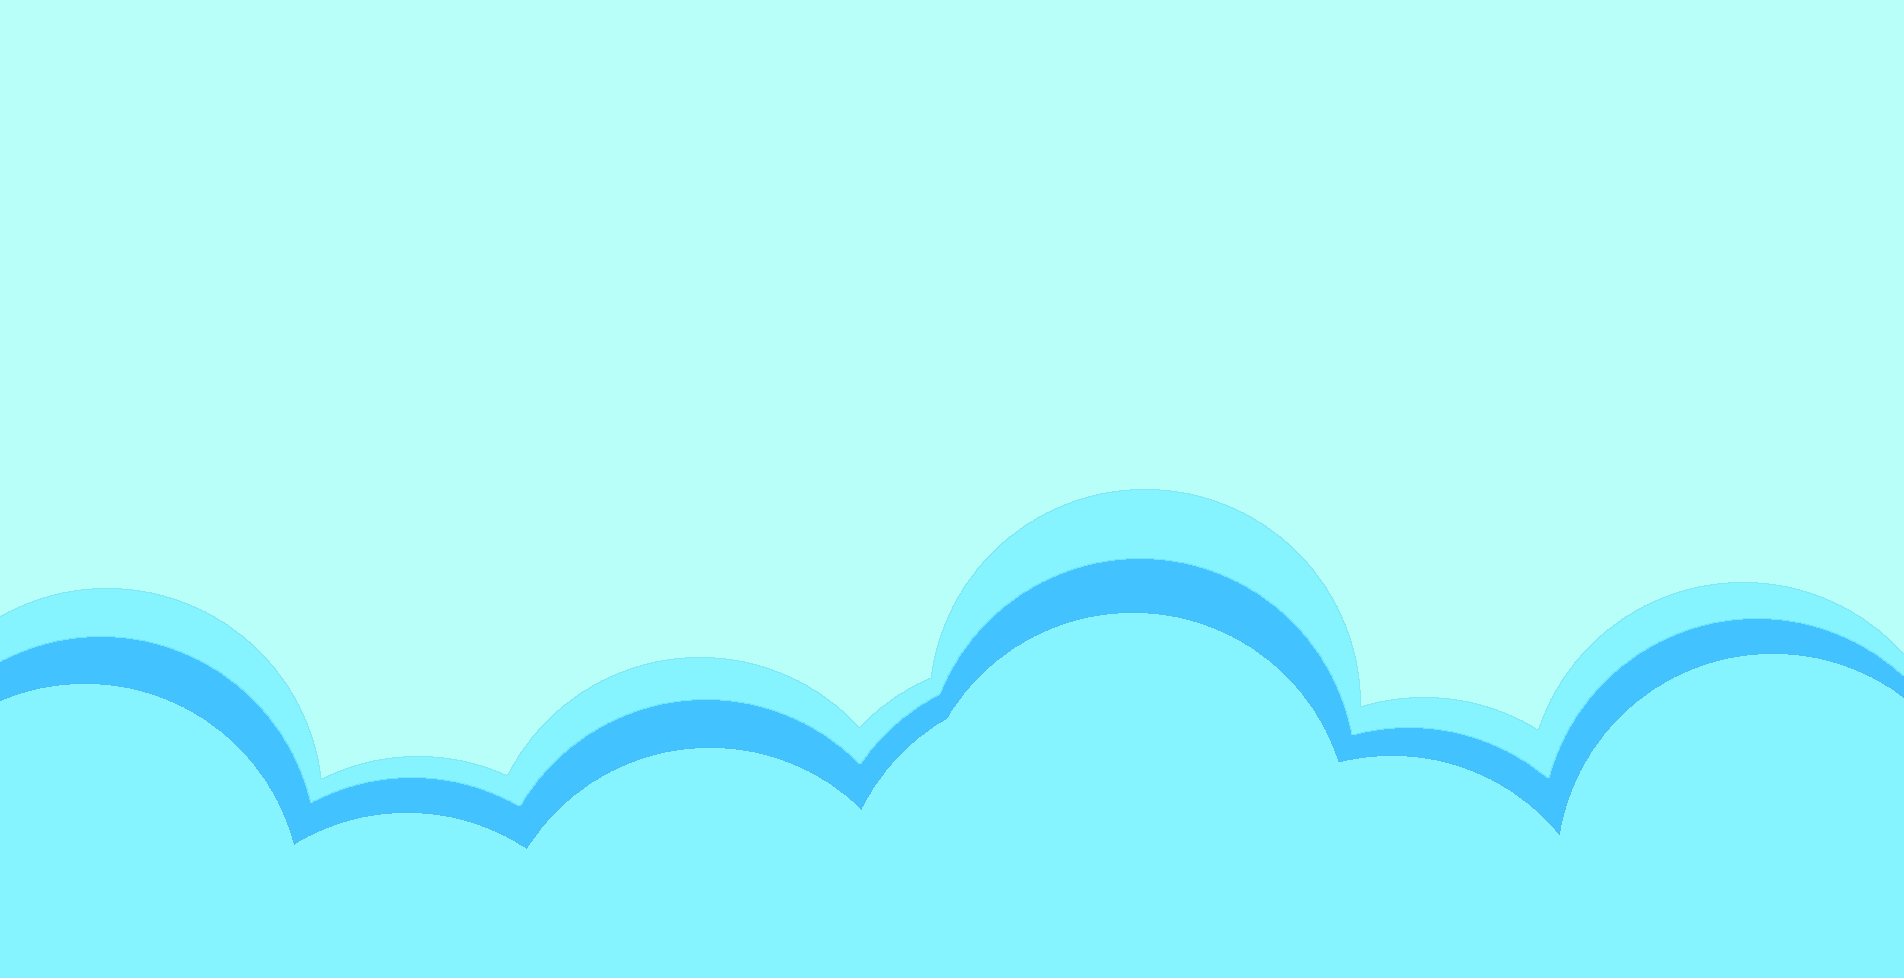
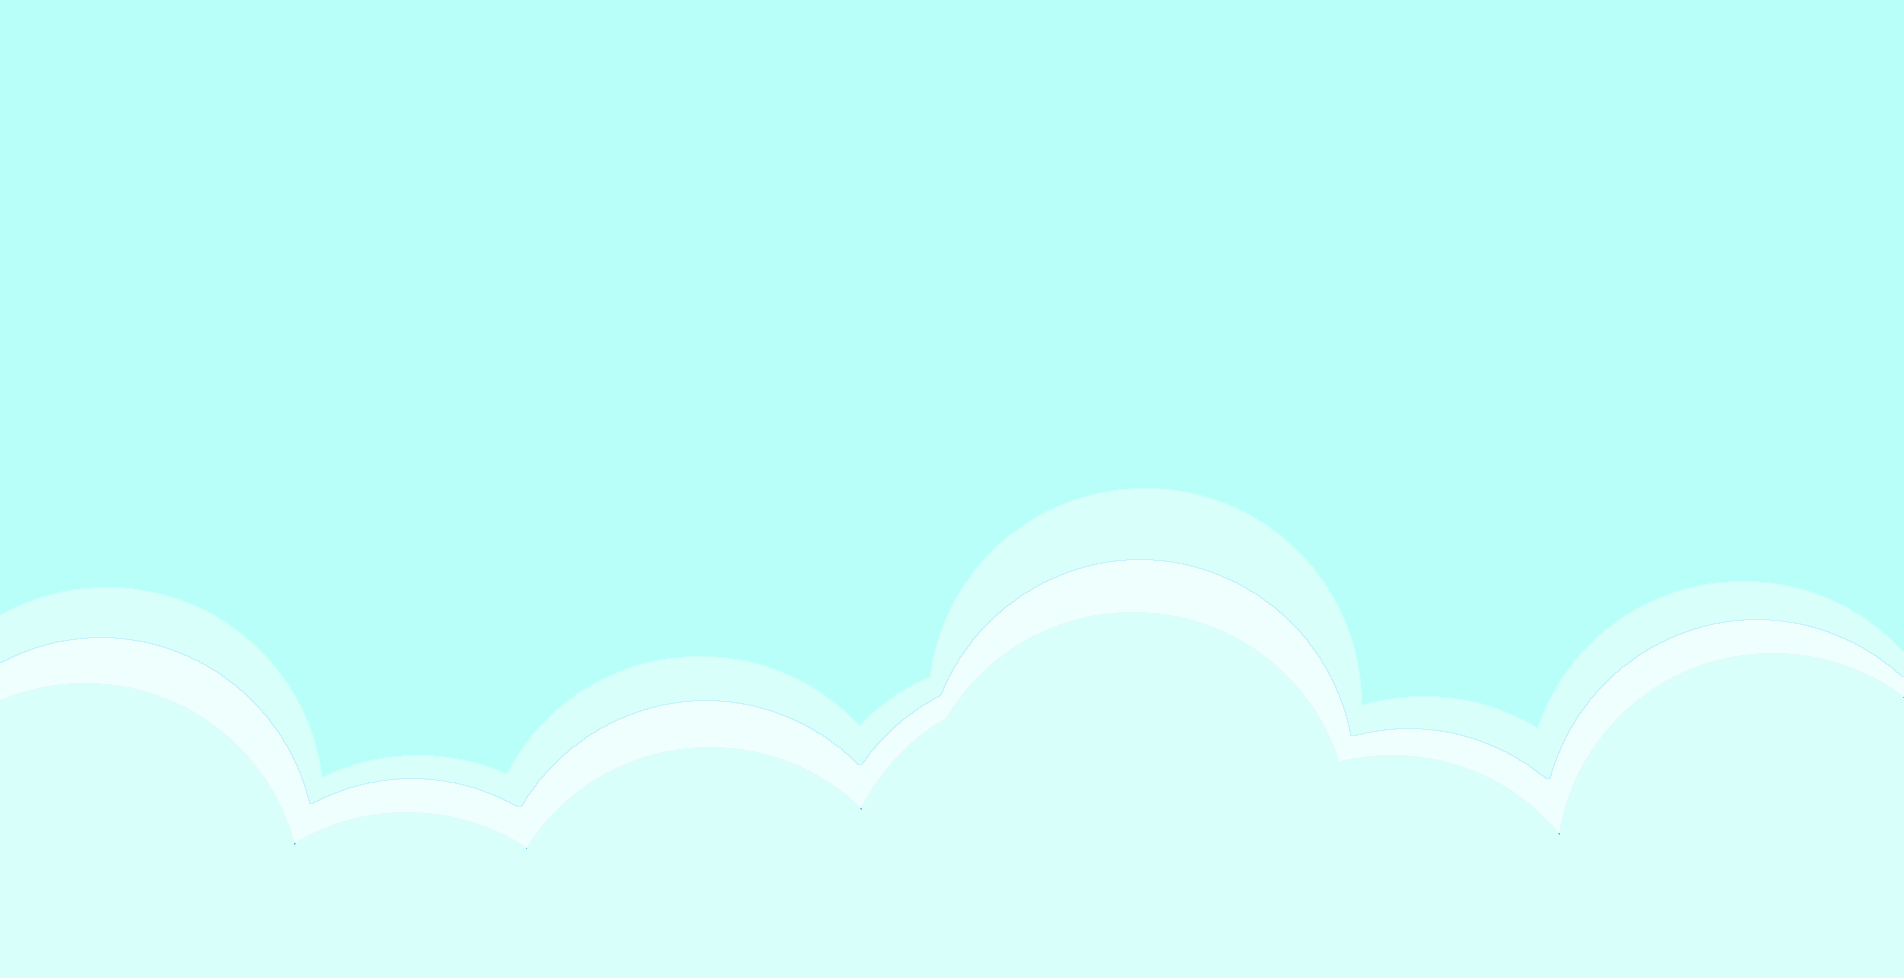
Arreglo de la seccion "contacto" para pantallas grandes

diff --git a/estilos.css b/estilos.css
@@ -31,14 +31,14 @@ html.dark-mode .separador{
 .subtitulo{
     text-align: center;
     margin-top: 10px;
-    background-color: #EFFFFD;
+    background-color: #98f0f8;
     padding: 5px;
 }
 
 html.dark-mode .subtitulo{
     background-color: #2C74B3;
 }
-
+/*#EFFFFD*/
 .modo-oscuro-sm{
     position: fixed;
     top: 15px;
@@ -87,7 +87,7 @@ html.dark-mode .modo-oscuro-sm{
   }
 
   #ir-contactos:hover {
-    background-color: #2C74B3; /* Add a dark-grey background on hover */
+    background-color: #2C74B3; 
   }
 
         /* Barra de navegación */
@@ -104,7 +104,7 @@ html.dark-mode .modo-oscuro-sm{
     display: flex;
     align-items: center;
     justify-content: center;
-    background-color: #B8FFF9;
+    background-color: #EFFFFD;
     color: black;
 }
 
@@ -135,7 +135,7 @@ html.dark-mode .sobre-mi-texto h2{
     text-align: center;
     font-style: italic;
     font-size: 2.5em;
-    background-color: #EFFFFD;
+    background-color: #2C74B3;
     color: black;
     animation: bg-animacion-light 2s linear infinite;
 }
@@ -160,13 +160,13 @@ html.dark-mode .sobre-mi-texto h1{
 
 @keyframes bg-animacion-light{
     0%{
-       background-color: #B8FFF9;
+       background-color: #3cb3eb;
     }
     50%{
         background-color: #85F4FF;
      }
     100%{
-        background-color: #B8FFF9
+        background-color: #3cb3eb;
      }
 }
 
@@ -212,7 +212,7 @@ html.dark-mode .sobre-mi-imagen img{
     display: flex;
     align-items: center;
     justify-content: center;
-    background-color: #85F4FF;
+    background-color: #d8fffa;
     color: black;
 }
 
@@ -260,7 +260,7 @@ html.dark-mode .accordion-body{
     align-items: center;
     justify-content: center;
     margin: 0;
-    background-color: #B8FFF9;
+    background-color: #EFFFFD;
     color: black;
 }
 
@@ -271,7 +271,6 @@ html.dark-mode .proyectos-sm{
 
 .proyectos-md{
     display: none;
-    color: white;
 }
 
 .proyectos-xl{
@@ -292,9 +291,9 @@ html.dark-mode .proyectos-sm{
 .card{
     margin: 0 auto;
     width: 100%;
-    background-color: #B8FFF9;
+    background-color: #EFFFFD;
     color: black;
-    border: 1px solid #42C2FF;
+    border: 3px solid black;
 }
 
 html.dark-mode .card{
@@ -322,7 +321,7 @@ html.dark-mode .card{
     display: block;
     align-items: center;
     justify-content: center;
-    background-color: #85F4FF;
+    background-color: #d8fffa;
     color: black;
 }
 
@@ -413,7 +412,7 @@ html.dark-mode .bx{
         justify-content: center;
         height: auto;
         margin-bottom: 0;
-        background-color: #B8FFF9;
+        background-color: #EFFFFD;
         color: black;
     }
 
@@ -446,6 +445,10 @@ html.dark-mode .bx{
         grid-template-columns: auto auto;
         gap: 20px;
         margin-top: 5%;
+    }
+
+    .otro-contacto{
+        padding-left: 20%;
     }
 
     .otro-contacto div i{
@@ -702,7 +705,7 @@ html.dark-mode .bx{
         height: fit-content;
         margin: 0;
         padding: 5%;
-        background-color: #B8FFF9;
+        background-color: #EFFFFD;
         color: black;
     }
 
@@ -721,5 +724,28 @@ html.dark-mode .bx{
     .card{
         width: 500px;
         height: fit-content;
+    }
+
+    .form-control{
+        border: 1px solid black;
+    }
+
+    html.dark-mode .form-control{
+        border: none;
+    }
+
+    .contactos .contenedor:nth-child(2){
+        display: grid;
+        grid-template-columns: auto auto;
+        gap: 50px;
+    }
+    
+    .otro-contacto{
+        padding-top: 50px;
+    }
+
+    .otro-contacto .grilla{
+        gap:50px;
+        padding-left: 20%;
     }
 }

diff --git a/index.html b/index.html
@@ -349,19 +349,19 @@
                 <h4>Otras formas de contácto</h4>
                 <div class="grilla">
                     <div>
-                        <i class='bx bxl-whatsapp' style='color:#ffffff'  ></i>
+                        <i class='bx bxl-whatsapp' ></i>
                         <span class="contacto">+54 11 39282419</span>
                     </div>
                     <div>
-                        <i class='bx bx-envelope' style='color:#ffffff' ></i>
+                        <i class='bx bx-envelope'  ></i>
                         <a href="mailto:cesarnrodas@gmail.com"><span class="contacto">cesarnrodas@gmail.com</span></a>
                     </div>
                     <div>
-                        <i class='bx bxl-discord-alt' style='color:#ffffff' ></i>
+                        <i class='bx bxl-discord-alt'  ></i>
                         <span class="contacto">Call me Nahu#6969</span>
                     </div>
                     <div>
-                        <i class='bx bxl-linkedin-square' style='color:#ffffff' ></i>
+                        <i class='bx bxl-linkedin-square' ></i>
                         <a href="https://www.linkedin.com/in/cesar-rodas-071489253/"><span class="contacto">Cesar Rodas</span></a>
                     </div>
                 </div>
@@ -371,9 +371,6 @@
 
 </body>
 
-<footer>
-
-</footer>
 <script src="codigo.js"></script>
 <script src="https://cdn.jsdelivr.net/npm/bootstrap@5.2.3/dist/js/bootstrap.bundle.min.js" integrity="sha384-kenU1KFdBIe4zVF0s0G1M5b4hcpxyD9F7jL+jjXkk+Q2h455rYXK/7HAuoJl+0I4" crossorigin="anonymous"></script>
 </html>
